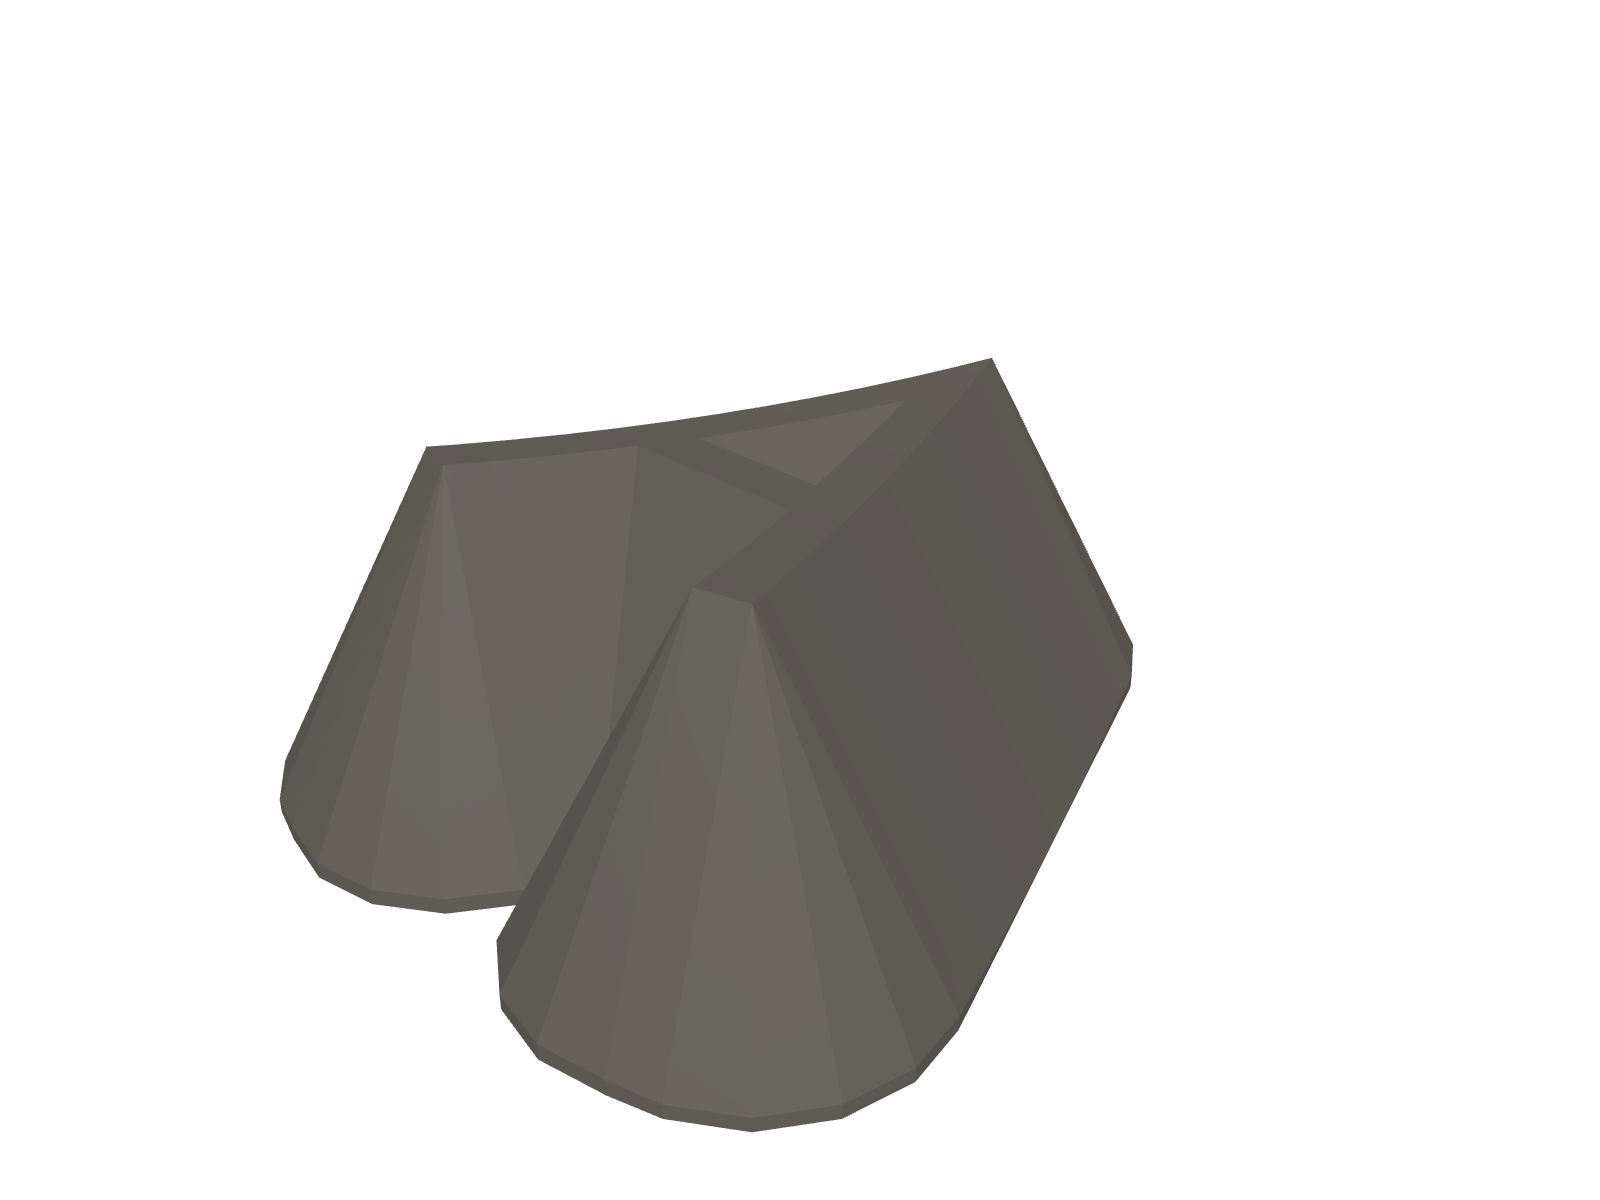
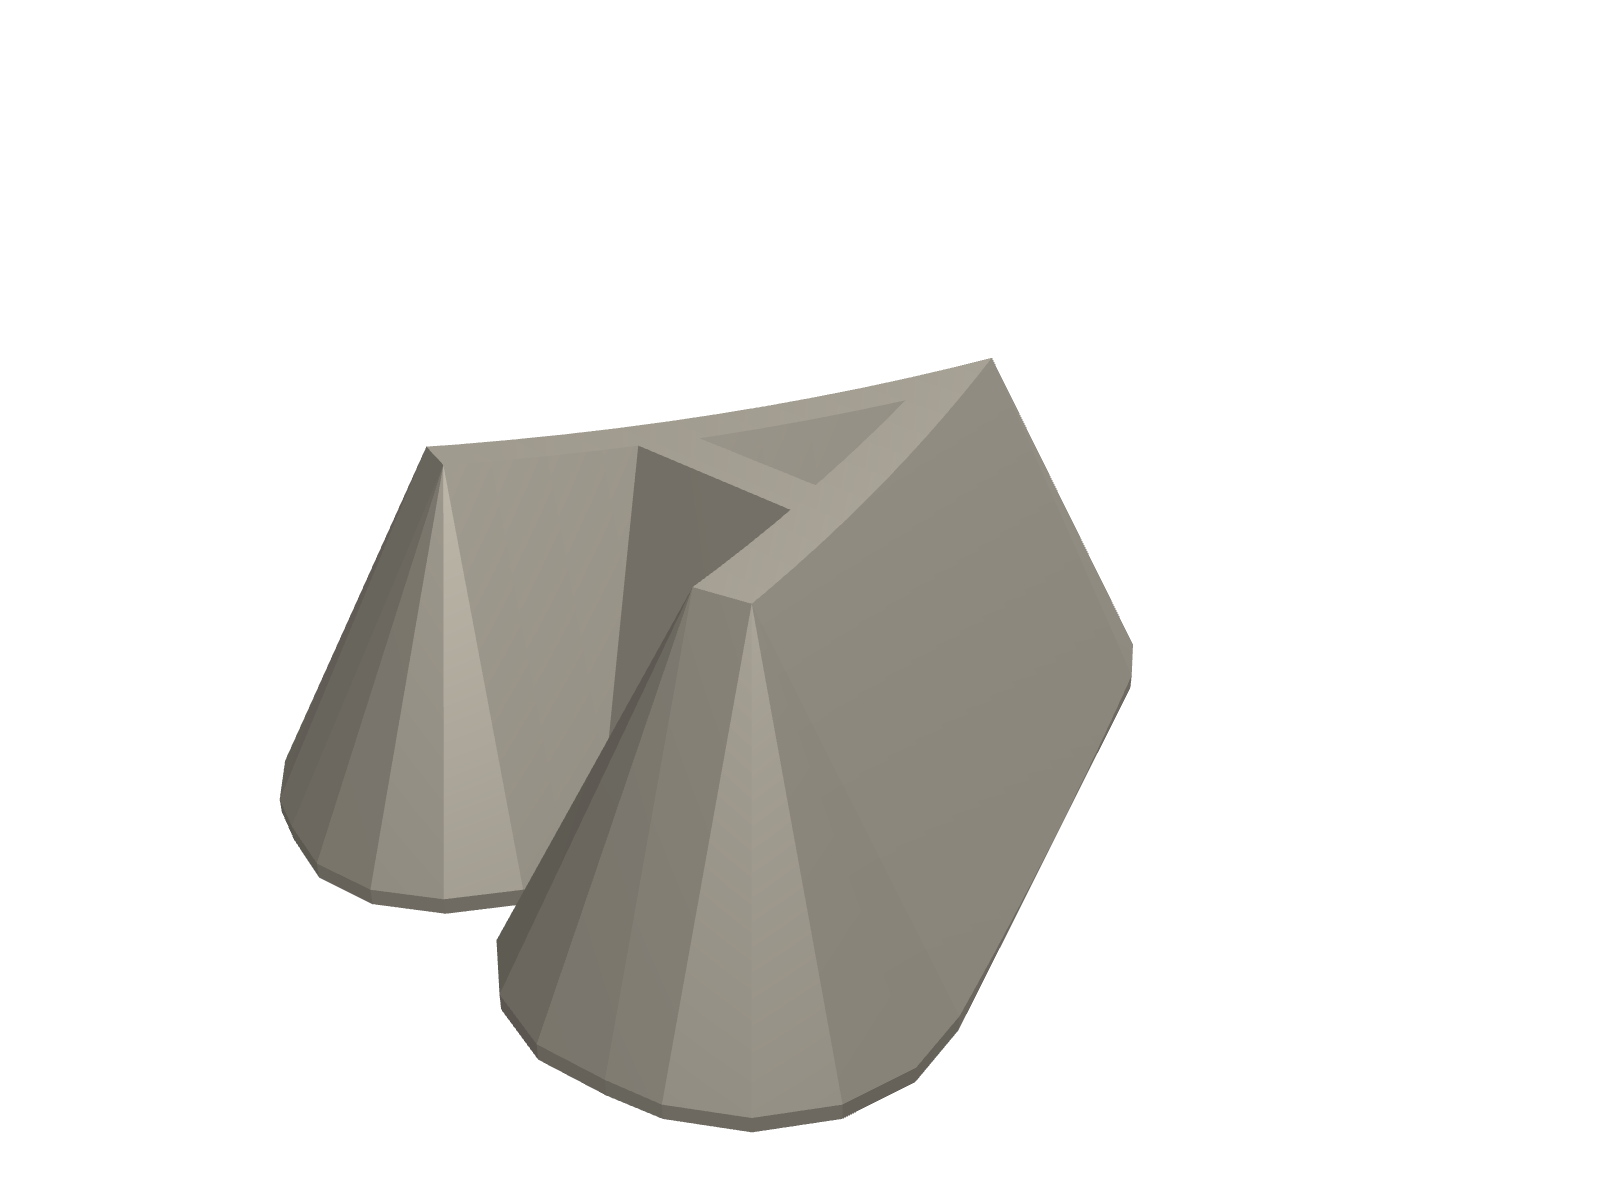
v4: tune thumbnail lighting - more metallic, brighter key/fill, add rim light
Hand-tuned via a standalone Three.js slider tool against real STLs, then
transplanted here: material roughness 0.65->0.59, metalness 0.05->0.56,
ambient 0.65->0.7, key intensity 1.1->4, fill intensity 0.5->0.66, plus a
new rim light (intensity 4, position (0, 2, -2)) that didn't exist before.
Regenerated every thumbnail with the new look.

Changed region(s): [[0.2188, 0.2775, 0.7188, 0.9558]]

diff --git a/v4/thumbnail_harness.html b/v4/thumbnail_harness.html
@@ -49,14 +49,17 @@ renderer.setPixelRatio(1);
 renderer.setSize(width, height, false);
 renderer.setClearColor(0xffffff, 1);
 
-// Same three-light rig as stl-viewer.js.
-scene.add(new THREE.AmbientLight(0xffffff, 0.65));
-const key = new THREE.DirectionalLight(0xffffff, 1.1);
+// Same light rig as stl-viewer.js.
+scene.add(new THREE.AmbientLight(0xffffff, 0.7));
+const key = new THREE.DirectionalLight(0xffffff, 4);
 key.position.set(1, 1.4, 1);
 scene.add(key);
-const fill = new THREE.DirectionalLight(0xffffff, 0.5);
+const fill = new THREE.DirectionalLight(0xffffff, 0.66);
 fill.position.set(-1, -0.5, -1);
 scene.add(fill);
+const rim = new THREE.DirectionalLight(0xffffff, 4);
+rim.position.set(0, 2, -2);
+scene.add(rim);
 
 const loader = new STLLoader();
 loader.load(
@@ -69,8 +72,8 @@ loader.load(
 
     const material = new THREE.MeshStandardMaterial({
       color: 0x8c877c,
-      roughness: 0.65,
-      metalness: 0.05,
+      roughness: 0.59,
+      metalness: 0.56,
     });
     const mesh = new THREE.Mesh(geometry, material);
 
